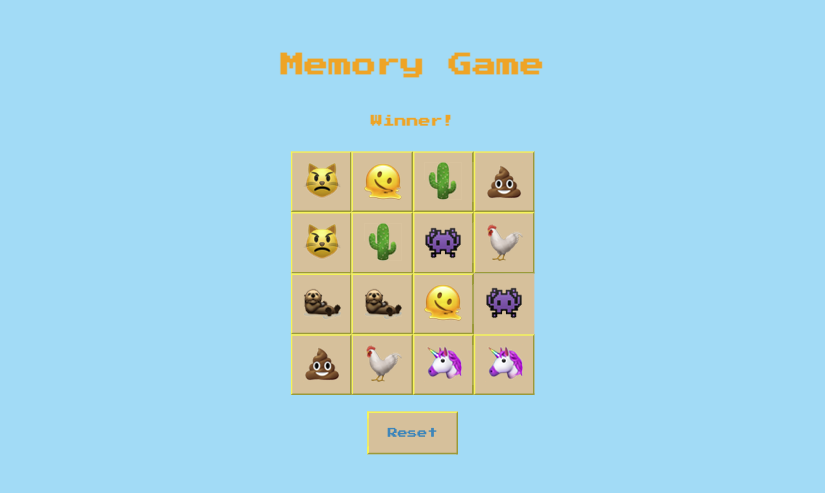
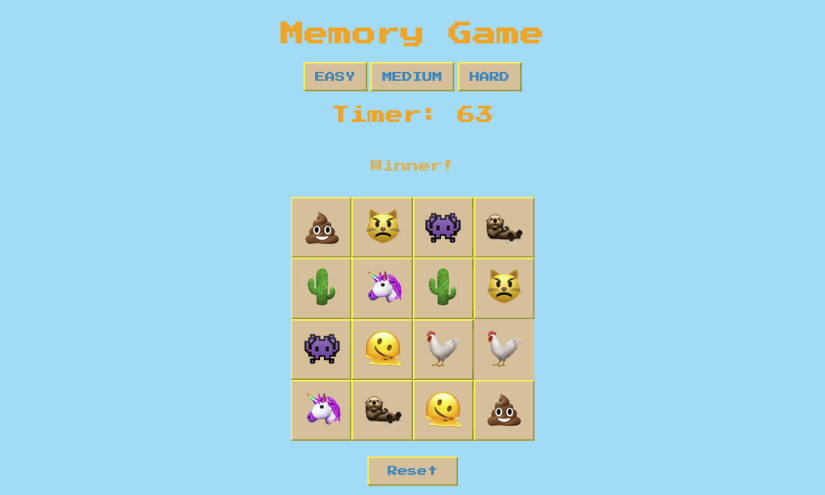
Thursday evening update

Changed region(s): [[0.3333, 0.3043, 0.6667, 1.0], [0.3333, 0.0304, 0.6667, 0.2738]]

diff --git a/js/app.js b/js/app.js
@@ -1,12 +1,12 @@
 /*-------------------------------- Constants --------------------------------*/
-const emojis = ['🫠','🫠', '🐓', '🐓', '🦄', '🦄', '🌵', '🌵', '💩', '💩', '😾', '😾', '👾', '👾', '🦦', '🦦'];
+
+const emojis = ['🫠', '🫠', '🐓', '🐓', '🦄', '🦄', '🌵', '🌵', '💩', '💩', '😾', '😾', '👾', '👾', '🦦', '🦦'];
+
 /*---------------------------- Variables (state) ----------------------------*/
 
 const matchingComboSound = new Audio('./Sounds/matching-combo-clap.wav');
 
 const nonMatchSound = new Audio('./Sounds/non-match.wav');
-
-// const startSound = new Audio('./Sounds/game-start-sound.wav');
 
 const winnerSound = new Audio('./Sounds/winner-sound.mp3');
 
@@ -26,10 +26,12 @@ let gameStart;
 
 let count;
 
-// let gameOver;
-
 let choosingSquare = false;
+
+let gameTimer
+
 /*------------------------ Cached Element References ------------------------*/
+
 const soundSquareElement = document.querySelectorAll('.sqr');
 
 const squareElement = document.querySelectorAll('.sqr');
@@ -41,23 +43,40 @@ const timerElement = document.querySelector('#timer');
 const boardElement = document.querySelector('.board');
 
 const resetButtonElement = document.querySelector('#reset');
+
 /*-------------------------------- Functions --------------------------------*/
-function init() {
+
+function init(levelTimer) {
     enableBoard();
-    count = 5;
-    timer(setInterval);
-    timerElement.textContent = `Timer: ${ count }`;
-    resultDisplayElement.textContent = 'Click any square to begin';
+    count = levelTimer;
+    timerElement.textContent = `Timer: ${count}`;
+    resultDisplayElement.textContent = 'Quick! Click a square';
     gameStart = true;
     gameOver = false;
     winner = false;
     board = ["", "", "", "", "", "", "", "", "", "", "", "", "", "", "", "",];
     shuffle();
-    render();
+    // Below code block is from original reset function. This was added to the init function to make the code more readable.
+    updateMessage();
+    squareElement.forEach((square, index) => {
+        square.textContent = '';
+    });
+    matchingCombos = [];
+    squareClicked = ["", "", "", "", "", "", "", "", "", "", "", "", "", "", "", ""];
+    // #####################################################################################################################
 }
 
-function render() {
-    updateBoard();
+function timer() {
+    if (count > 0) {
+        count--;
+        timerElement.textContent = `Timer: ${count}`;
+    }
+
+    if (count === 0) {
+        resultDisplayElement.textContent = 'Game Over';
+        clearInterval(gameTimer);
+        disableBoard()
+    }
 }
 
 function shuffle() {
@@ -70,7 +89,7 @@ function shuffle() {
 
 function handleClick(event) {
 
-    winner = checkForWinner();
+    checkForWinner();
     updateMessage();
 
     const square = event.target;
@@ -85,7 +104,7 @@ function handleClick(event) {
             if (selectedEmojis[0].emoji === selectedEmojis[1].emoji) {
                 matchingCombos.push(selectedEmojis[0].emoji);
                 matchingCombos.push(selectedEmojis[1].emoji);
-                winner = checkForWinner();
+                checkForWinner();
                 selectedEmojis = [];
                 matchingComboSound.volume = 0.40;
                 matchingComboSound.play();
@@ -106,12 +125,6 @@ function handleClick(event) {
 function hideSquares(index0, index1) {
     const emoji1 = emojis[index0];
     const emoji2 = emojis[index1];
-
-    // if (emoji1 === emoji2) {
-    //     // If the emojis match, return without hiding
-    //     return;
-    // }
-
     const square1 = document.getElementById(index0);
     const square2 = document.getElementById(index1);
     square1.textContent = '';
@@ -120,17 +133,7 @@ function hideSquares(index0, index1) {
     squareClicked[index1] = false;
 }
 
-const timer = setInterval(function() {
-    count--;
-    timerElement.textContent = `Timer: ${ count }`;
-    if (count === 0) {
-        clearInterval(timer);
-        disableBoard();
-        resultDisplayElement.textContent = 'Game Over';
-    }
-},1000);
-
-function disableBoard() {
+function disableBoard() { //disables the board when called. Used when the timer runs out.
     squareElement.forEach((square) => {
         square.disabled = true
     });
@@ -143,48 +146,65 @@ function enableBoard() {
 }
 
 function checkForWinner() {
-    if (winner === false) {
-        if (matchingCombos.length === emojis.length) {
-            resultDisplayElement.textContent = 'Winner!';
-            winnerSound.volume = 0.50;
-            winnerSound.play();
-            winner = true;
-        }
+    if (matchingCombos.length === emojis.length) {
+        resultDisplayElement.textContent = 'Winner!';
+        clearInterval(gameTimer);
+        winnerSound.volume = 0.50;
+        winnerSound.play();
+        winner = true;
     }
 }
 
 function updateBoard() {
     emojis.forEach((emoji, index) => {
-    // console.log(index);
-    const squareElement = document.getElementById(index);
-    if (!squareClicked[index]) {
-        emojis.textContent = '';
-         }
-        });
-    }
+        const squareElement = document.getElementById(index);
+        if (!squareClicked[index]) {
+            emojis.textContent = '';
+        }
+    });
+}
 
 function updateMessage() {
     if (squareClicked.includes("") && gameStart === true) {
-        resultDisplayElement.textContent = "";
+        resultDisplayElement.textContent = "Quick! Click a square!";
         gameStart = false;
+    } else {
+        resultDisplayElement.textContent = "";
     }
-
-    // else if (winner === true && gameStart === false) { 
-    //     resultDisplayElement.textContent = 'Winner!';
-    // }
 }
 
 function reset() {
-    init();
-    updateMessage();
-    squareElement.forEach((square, index) => {
-        square.textContent = '';
-    });
-    matchingCombos = [];
-    squareClicked = ["", "", "", "", "", "", "", "", "", "", "", "", "", "", "", ""];
+    clearInterval(gameTimer);
+    init(0);
 }
+
 /*----------------------------- Event Listeners -----------------------------*/
-document.addEventListener('DOMContentLoaded', init);
+
+// document.addEventListener('DOMContentLoaded', init);
+document.addEventListener('DOMContentLoaded', () => {
+    // Game level selection
+    const easyLevelButton = document.getElementById("easy")
+    const mediumLevelButton = document.getElementById("medium")
+    const hardLevelButton = document.getElementById("hard")
+
+    easyLevelButton.addEventListener("click", () => {
+        reset()
+        init(90)
+        gameTimer = setInterval(timer, 1000);
+    })
+
+    mediumLevelButton.addEventListener("click", () => {
+        reset()
+        init(60)
+        gameTimer = setInterval(timer, 1000);
+    })
+
+    hardLevelButton.addEventListener("click", () => {
+        reset()
+        init(30)
+        gameTimer = setInterval(timer, 1000);
+    })
+});
 
 boardElement.addEventListener('click', handleClick);
 

diff --git a/css/style.css b/css/style.css
@@ -13,10 +13,6 @@ body {
     align-items: center;
     justify-content: center;
     overflow: hidden;
-    /* animation: spin;
-    animation-duration: 600ms;
-    animation-iteration-count:inherit;
-    animation-timing-function: ease-out; */
 }
 
 
@@ -24,6 +20,18 @@ body {
 h1 {
     text-align: center;
     color: orange;
+}
+
+#level button {
+    font-family: "Press Start 2P", system-ui;
+    font-weight: 400;
+    font-style: normal;
+    justify-content: space-evenly;
+    align-items: center;
+    background-color: #e1c5a3;
+    color: #0097c3;
+    border-color: #ffef55;
+    padding: 11px 14px;
 }
 
 #timer {
@@ -43,30 +51,22 @@ h1 {
     0% {
         opacity: 1;
     }
+
     50% {
         opacity: 0;
     }
+
     100% {
         opacity: 1;
     }
 }
-
-/* #play button {
-    font-family: "Press Start 2P", system-ui;
-    font-weight: 400;
-    font-style: normal;
-    background-color: transparent;
-    color: orange;
-    border-color: #ffef55;
-    padding: 5px 20px; */
-
 
 section {
     justify-content: center;
     align-items: center;
     animation: spin;
     animation-duration: 550ms;
-    animation-iteration-count:inherit;
+    animation-iteration-count: inherit;
     animation-timing-function: ease-out;
 }
 
@@ -74,6 +74,7 @@ section {
     from {
         transform: rotate(0deg);
     }
+
     to {
         transform: rotate(900deg);
     }
@@ -107,9 +108,15 @@ button:hover {
     background-color: #e1c5a3;
     color: #0097c3;
     border-color: #ffef55;
-    padding: 20px 25px;
+    padding: 11px 25px;
 }
 
 #reset button:hover {
     border: orange;
+}
+
+#level {
+    display: flex;
+    width: 300px;
+    justify-content: space-evenly;
 }

diff --git a/index.html b/index.html
@@ -1,19 +1,26 @@
 <!DOCTYPE html>
 <html lang="en">
+
 <head>
     <meta charset="UTF-8">
     <meta name="viewport" content="width=device-width, initial-scale=1.0">
     <title>Project 1 - Memory Game</title>
     <script defer src="./js/app.js"></script>
     <link rel="stylesheet" href="./css/style.css">
-    <link rel="stylesheet" href="https://cdnjs.cloudflare.com/ajax/libs/animate.css/4.1.1/animate.min.css"/>
+    <link rel="stylesheet" href="https://cdnjs.cloudflare.com/ajax/libs/animate.css/4.1.1/animate.min.css" />
     <link rel="preconnect" href="https://fonts.googleapis.com">
     <link rel="preconnect" href="https://fonts.gstatic.com" crossorigin>
     <link href="https://fonts.googleapis.com/css2?family=Press+Start+2P&display=swap" rel="stylesheet">
     <audio></audio>
 </head>
+
 <body>
     <h1>Memory Game</h1>
+    <div id="level">
+        <button id="easy">EASY</button>
+        <button id="medium">MEDIUM</button>
+        <button id="hard">HARD</button>
+    </div>
     <h2 id='timer'></h2>
     <h2 id="message"></h2>
     <section class="board">
@@ -38,4 +45,5 @@
         <button>Reset</button>
     </h4>
 </body>
+
 </html>

diff --git a/README.md b/README.md
@@ -1,6 +1,8 @@
 # Memory Game
 
-*Memory Game* is as it sounds. It is a simple memory based game where the aim is to select all matching pairs of emojis. There is no time limit set so the user has as much time as they need to work through the entire 4 x 4 board.
+*Memory Game* is as it sounds. It is a simple memory based game where the aim is to select all matching pairs of emojis. 
+
+Click the below link to play!
 
 [Memory Game](https://uakaris.github.io/Project-1/)
 
@@ -8,7 +10,9 @@
 
 ![an image the initial state of the game](Images/game-start.png)
 
-Use the mouse to click on squares within the board to reveal the emojis. Matching pairs of emojis once found will remain on the board. If you click two squares that do not match, they will return to being hidden. The aim is to find all matching pairs of emojis.
+Selected a level of difficulty from the three options. Easy allows 90 seconds to complete the game, medium allows 60 seconds, and hard allows 30 seconds.
+
+Use the mouse to click on squares within the board to reveal the emojis. Matching pairs of emojis once found will remain on the board. If you click two squares that do not match, they will return to being hidden. The aim is to find all matching pairs of emojis within the given time.
 
 ![an image of the end state of the game](Images/game-end.png)
 
@@ -22,7 +26,10 @@ The game can be played as many times as possible. Simply click the ***reset*** b
 
 ## Features
 
-Audio that is triggered by clicks on squares within the board, 
+* Interactive audio.
+* CSS animations.
+* Three levels of difficulty.
+* Countdown timer that is set by the three levels of difficulty.
 
 
 ## Credits
@@ -31,12 +38,13 @@ All audio was sourced from [Freesound](https://freesound.org/)
 
 General css animations were used along with animations from [Animate.css](https://animate.style/)
 
+Further credit to **Sarma** for his help with finishing my timer function as well as spending a huge amount of time helping to create the 'easy', 'medium', and 'hard timer settings. To **CJ** for assisting with the ***checkForWinner*** function and with early issues with the ***reset*** function. The assistance was greatly appreciated.
+
 ## Next steps 
 
 Things I would like to add to the game in the future: 
 
-* further animations that are triggered when a player wins.
-* A timer that counts down from 30 seconds each time a square is clicked allowing only 30 seconds for the player to find a matching pair of emojis.
-* A gameOver function that declares the game over if a matching pair of emojis is not found in 30 seconds.
-
-## licence
+* Further animations that are triggered when a player wins, or loses.
+* Updating the ***timer*** function so it resets after a pair is found rather than having a timer that runs for the whole game. This would make the game more exciting.
+* Adding animation to 'flip' the squares when the emojis are revealed.
+* more advanced CSS styling.
